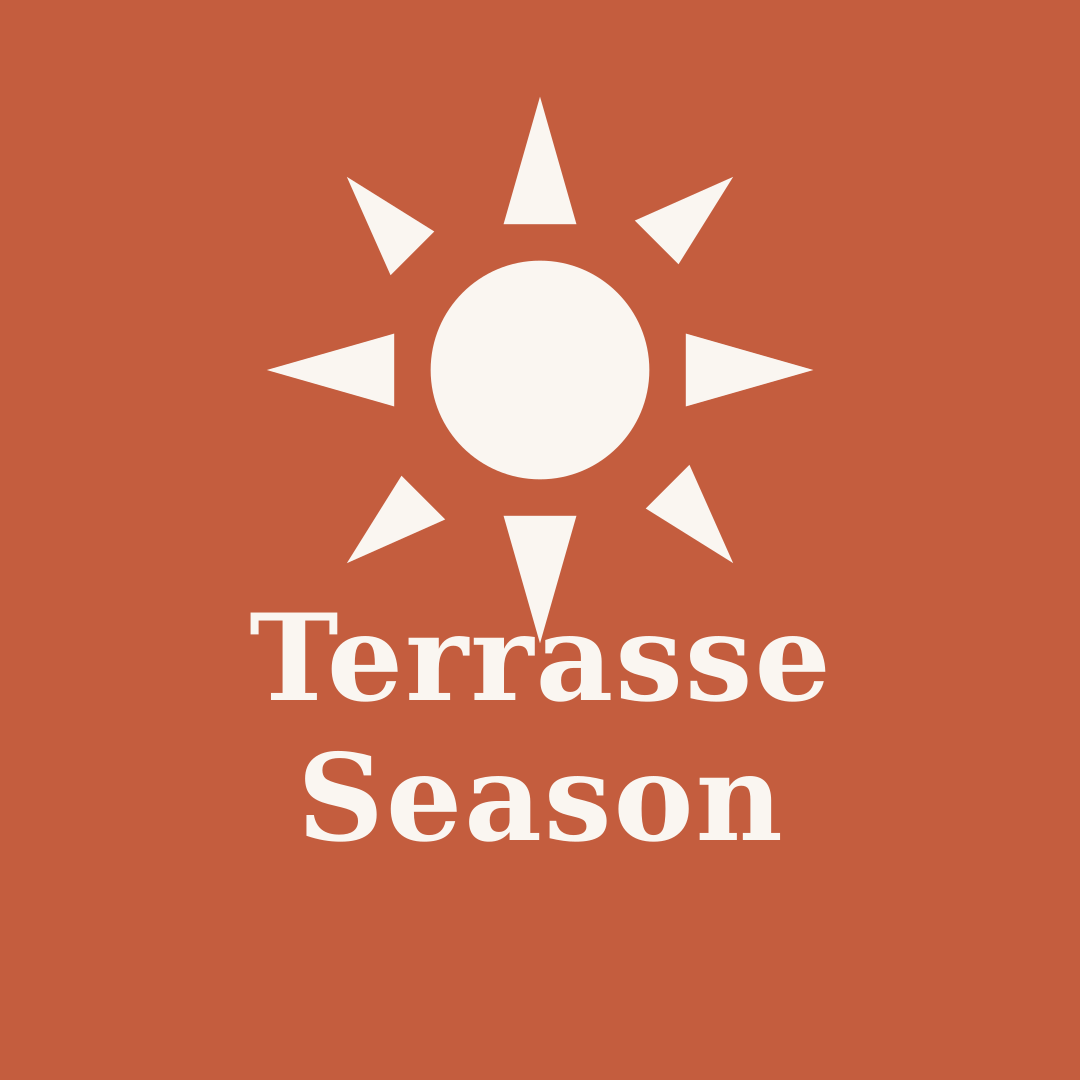
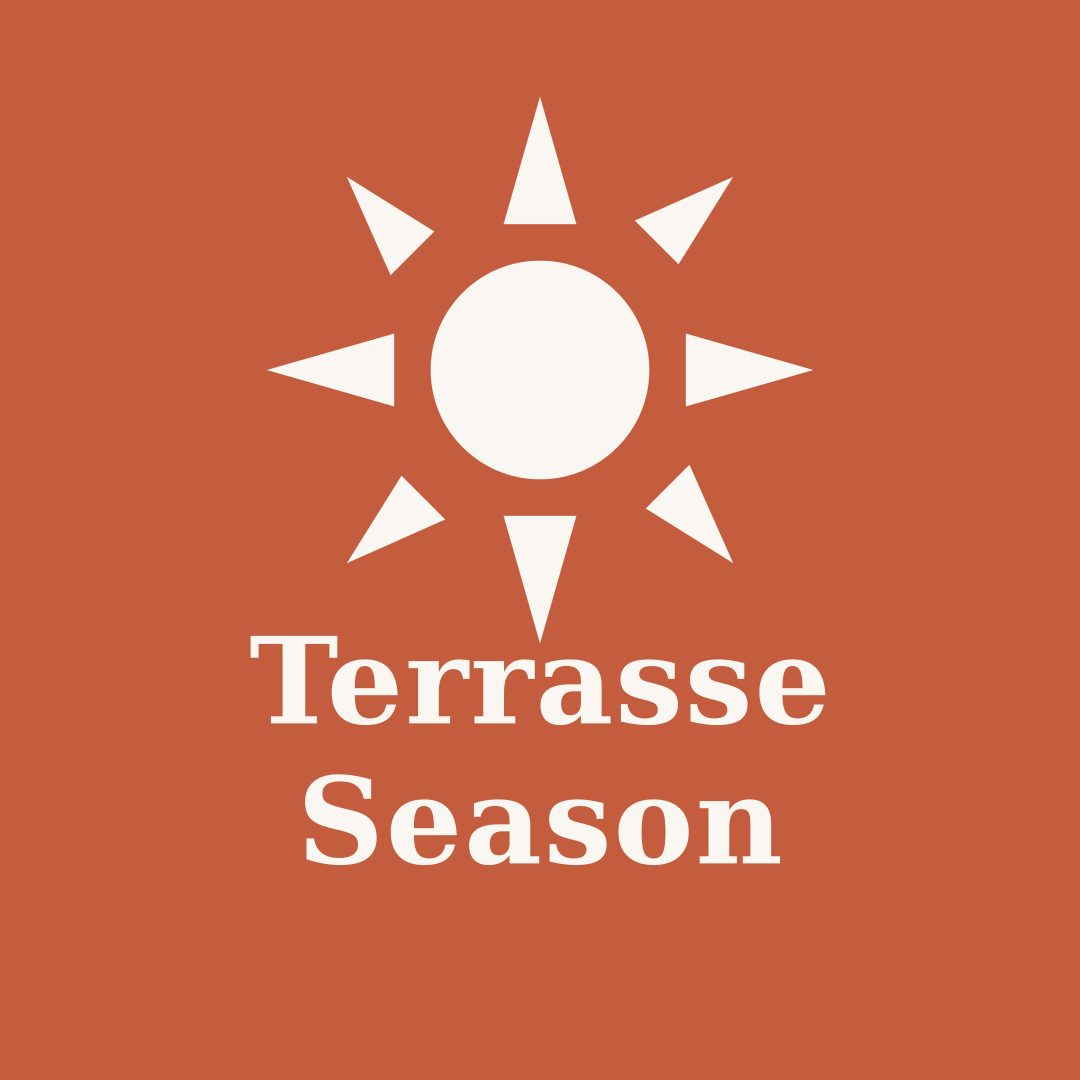
Fix text overlap: calculate text position from sun bottom ray
Text y positions now derived from sunBottom + gap so larger
sun fills automatically push the text down.

https://claude.ai/code/session_01QF8FJuXMCXb8xvZ3hxR1if

Changed region(s): [[0.2139, 0.55, 0.7639, 0.825]]

diff --git a/scripts/generate-icons.js b/scripts/generate-icons.js
@@ -88,6 +88,9 @@ function makeInstagramSvgTwoLines(bg, fg, sunFill = 0.42) {
   const cx = s / 2;
   const sunCy = 370;
   const sunScale = (s * sunFill) / 32;
+  const sunBottom = sunCy + 15 * sunScale;
+  const text1Y = Math.max(700, sunBottom + 80);
+  const text2Y = text1Y + 140;
 
   const tx = (x) => cx + (x - 16) * sunScale;
   const ty = (y) => sunCy + (y - 16) * sunScale;
@@ -108,7 +111,7 @@ function makeInstagramSvgTwoLines(bg, fg, sunFill = 0.42) {
   <polygon points="${tp([[5.4,26.6],[8.4,21.8],[10.8,24.2]])}" fill="${fg}"/>
   <circle cx="${cx}" cy="${sunCy}" r="${6 * sunScale}" fill="${fg}"/>
   <text
-    x="${cx}" y="700"
+    x="${cx}" y="${text1Y}"
     text-anchor="middle"
     font-family="Playfair Display, Georgia, serif"
     font-size="120"
@@ -117,7 +120,7 @@ function makeInstagramSvgTwoLines(bg, fg, sunFill = 0.42) {
     letter-spacing="2"
   >Terrasse</text>
   <text
-    x="${cx}" y="840"
+    x="${cx}" y="${text2Y}"
     text-anchor="middle"
     font-family="Playfair Display, Georgia, serif"
     font-size="120"
